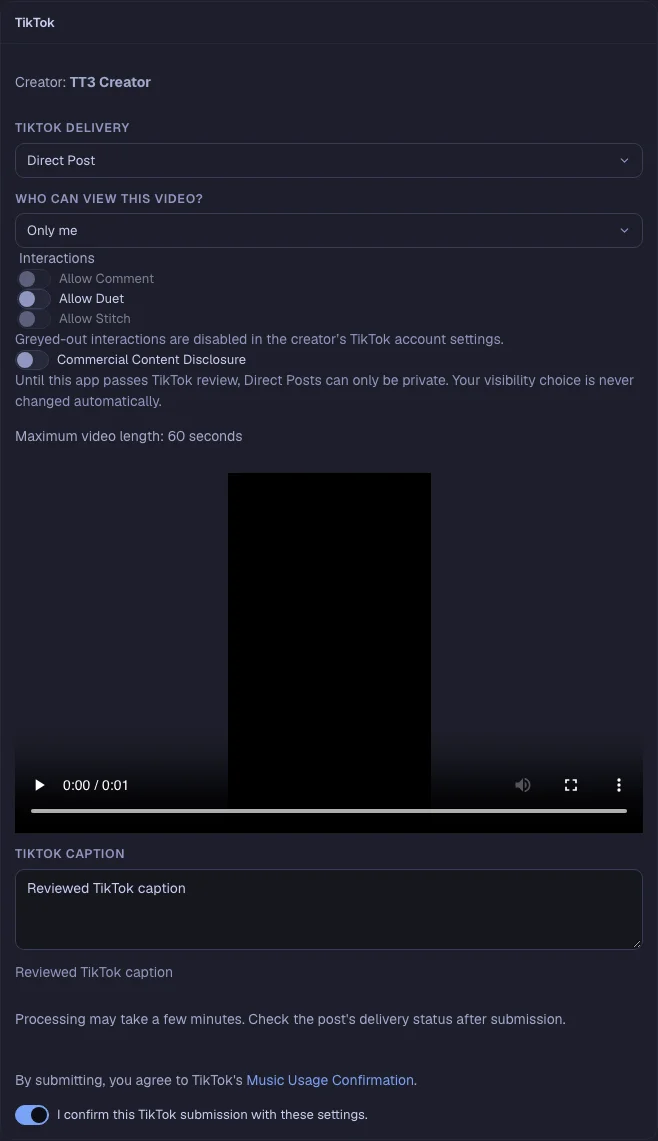
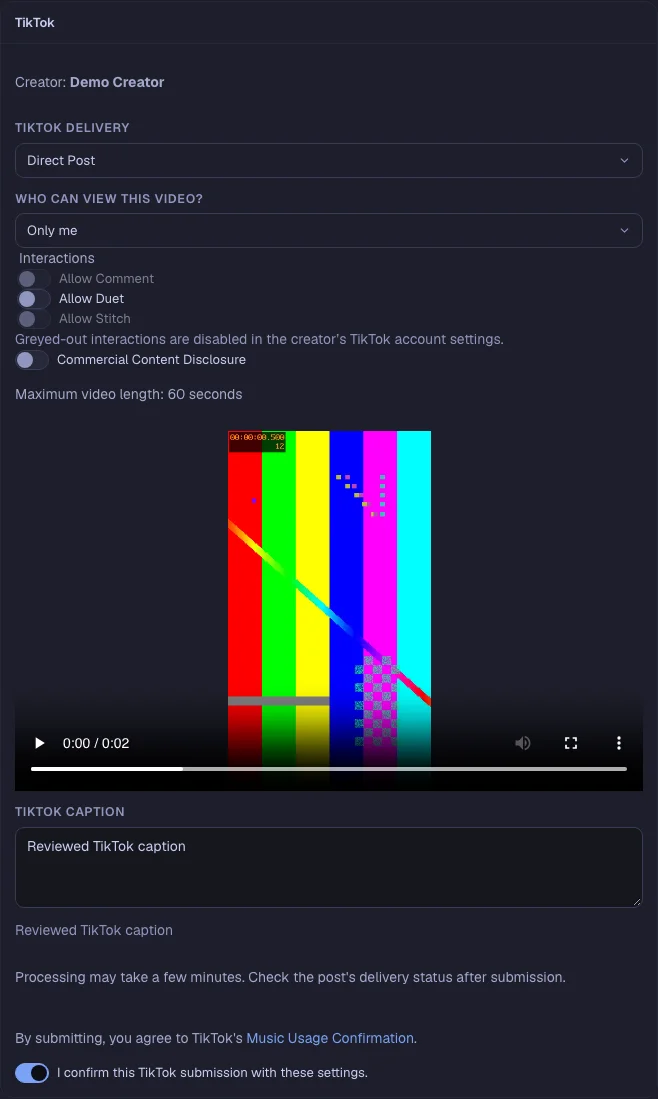
fix: refresh public TikTok composer illustration

diff --git a/e2e/tiktok-compose.spec.ts b/e2e/tiktok-compose.spec.ts
@@ -1,5 +1,8 @@
 import { test, expect, type Page } from "@playwright/test";
-import { readFileSync } from "node:fs";
+import { readFileSync, mkdtempSync, rmSync } from "node:fs";
+import { tmpdir } from "node:os";
+import { join } from "node:path";
+import { execFileSync } from "node:child_process";
 import { Client } from "pg";
 import { createCipheriv, createHash, randomBytes } from "node:crypto";
 import { E2E_DATABASE_URL, serverEnv } from "./env";
@@ -50,12 +53,27 @@ test.beforeAll(async ({ request }) => {
 
 test("public TikTok composer preview", async ({ page }) => {
   await page.setViewportSize({ width: 1440, height: 3200 });
-  await creatorToken("available");
+  const dir = mkdtempSync(join(tmpdir(), "poststack-demo-"));
+  let demoVideo: Buffer;
+  try {
+    const path = join(dir, "demo.mp4");
+    execFileSync("ffmpeg", ["-hide_banner", "-loglevel", "error", "-f", "lavfi", "-i", "testsrc2=size=360x640:rate=24", "-t", "2", "-c:v", "libx264", "-pix_fmt", "yuv420p", "-movflags", "+faststart", path]);
+    demoVideo = readFileSync(path);
+  } finally { rmSync(dir, { recursive: true, force: true }); }
+  await page.route("https://cdn.example.test/tt3.mp4", route => {
+    const range = /^bytes=(\d+)-(\d*)$/.exec(route.request().headers().range ?? "");
+    const start = range ? Number(range[1]) : 0;
+    const end = range?.[2] ? Math.min(Number(range[2]), demoVideo.length - 1) : demoVideo.length - 1;
+    return route.fulfill({ status: range ? 206 : 200, contentType: "video/mp4",
+      headers: { "accept-ranges": "bytes", ...(range ? { "content-range": `bytes ${start}-${end}/${demoVideo.length}` } : {}) },
+      body: demoVideo.subarray(start, end + 1) });
+  });
+  await creatorToken("public-demo");
   await openComposer(page);
   await page.getByRole("button", { name: "Publish now", exact: true }).click();
   await page.getByLabel("TikTok privacy").selectOption("SELF_ONLY");
   const panel = page.getByRole("region", { name: "TikTok publishing" });
-  await expect(panel.getByText("TT3 Creator", { exact: true })).toBeVisible();
+  await expect(panel.getByText("Demo Creator", { exact: true })).toBeVisible();
   await expect(panel.getByLabel("Allow Duet", { exact: true })).toBeEnabled();
   await panel.getByLabel("I confirm this TikTok submission with these settings.").check();
   await expect(page.locator('button[type="submit"]')).toBeEnabled();
@@ -64,8 +82,15 @@ test("public TikTok composer preview", async ({ page }) => {
   await expect.poll(() => preview.evaluate((el) => (el as HTMLVideoElement).readyState)).toBeGreaterThanOrEqual(2);
   await preview.evaluate((el) => { const video = el as HTMLVideoElement; video.pause(); video.currentTime = 0.5; });
   await expect.poll(() => preview.evaluate((el) => (el as HTMLVideoElement).seeking)).toBe(false);
+  await expect(preview).toHaveJSProperty("videoWidth", 360);
+  await expect(preview).toHaveJSProperty("currentTime", 0.5);
+  const review = panel.getByText("Until this app passes TikTok review", { exact: false });
+  await expect(review).toBeVisible();
   await page.evaluate(() => window.scrollTo(0, 0));
   if (process.env.PUBLIC_SITE_SCREENSHOT) {
+    // Omit this notice only from the public illustration; the product keeps it.
+    await review.evaluate(el => { (el as HTMLElement).style.display = "none"; });
+    await expect(review).toBeHidden();
     const sharp = (await import("sharp")).default;
     await sharp(await panel.screenshot({ animations: "disabled" })).webp({ quality: 85 }).toFile(process.env.PUBLIC_SITE_SCREENSHOT);
   }

diff --git a/src/server/ui/public-site/content.ts b/src/server/ui/public-site/content.ts
@@ -47,7 +47,7 @@ export function publicContent(page: PublicPage, config: PublicSiteConfig) {
     </section>`;
   switch (page.path) {
     case "/": return html`<p class="lead">${brand.name} is a publishing and conversation workspace for creators and authorised account managers working with their own accounts.</p>
-    ${has("tiktok") ? html`<figure><img src="/public-compose-tiktok.webp" width="658" height="1141" alt="Example TikTok composer showing TT3 Creator, audience selection, interaction controls and submission consent" /><figcaption>Example workspace with demonstration data: review the creator identity, audience, interactions and consent before submitting a TikTok post.</figcaption></figure>` : ""}
+    ${has("tiktok") ? html`<figure><img src="/public-compose-tiktok.webp" width="658" height="1099" alt="Example TikTok composer showing Demo Creator, audience selection, interaction controls and submission consent" /><figcaption>Example workspace with demonstration data: review the creator identity, audience, interactions and consent before submitting a TikTok post.</figcaption></figure>` : ""}
     <section>
       <h2>Bring your content together</h2>
       <p>Use a workspace to keep the material for your next post in one place. Add media, write captions and choose which connected account will receive the content. Drafts give you space to prepare a message before deciding when it should reach your audience.</p>

diff --git a/e2e/fixtures/tiktok-server.ts b/e2e/fixtures/tiktok-server.ts
@@ -31,7 +31,7 @@ globalThis.fetch = (async (input: string | URL | Request, init?: RequestInit) =>
     if (token.includes("cannot-post")) return Response.json({ error: { code: "spam_risk_too_many_posts" } });
     if (token.includes("info-error")) return Response.json({}, { status: 503 });
     return Response.json({ data: {
-      creator_nickname: "TT3 Creator", creator_avatar_url: "",
+      creator_nickname: token.includes("public-demo") ? "Demo Creator" : "TT3 Creator", creator_avatar_url: "",
       privacy_level_options: ["PUBLIC_TO_EVERYONE", "MUTUAL_FOLLOW_FRIENDS", "SELF_ONLY"],
       comment_disabled: true, duet_disabled: false, stitch_disabled: true, max_video_post_duration_sec: 60,
     }, error: { code: "ok" } });
